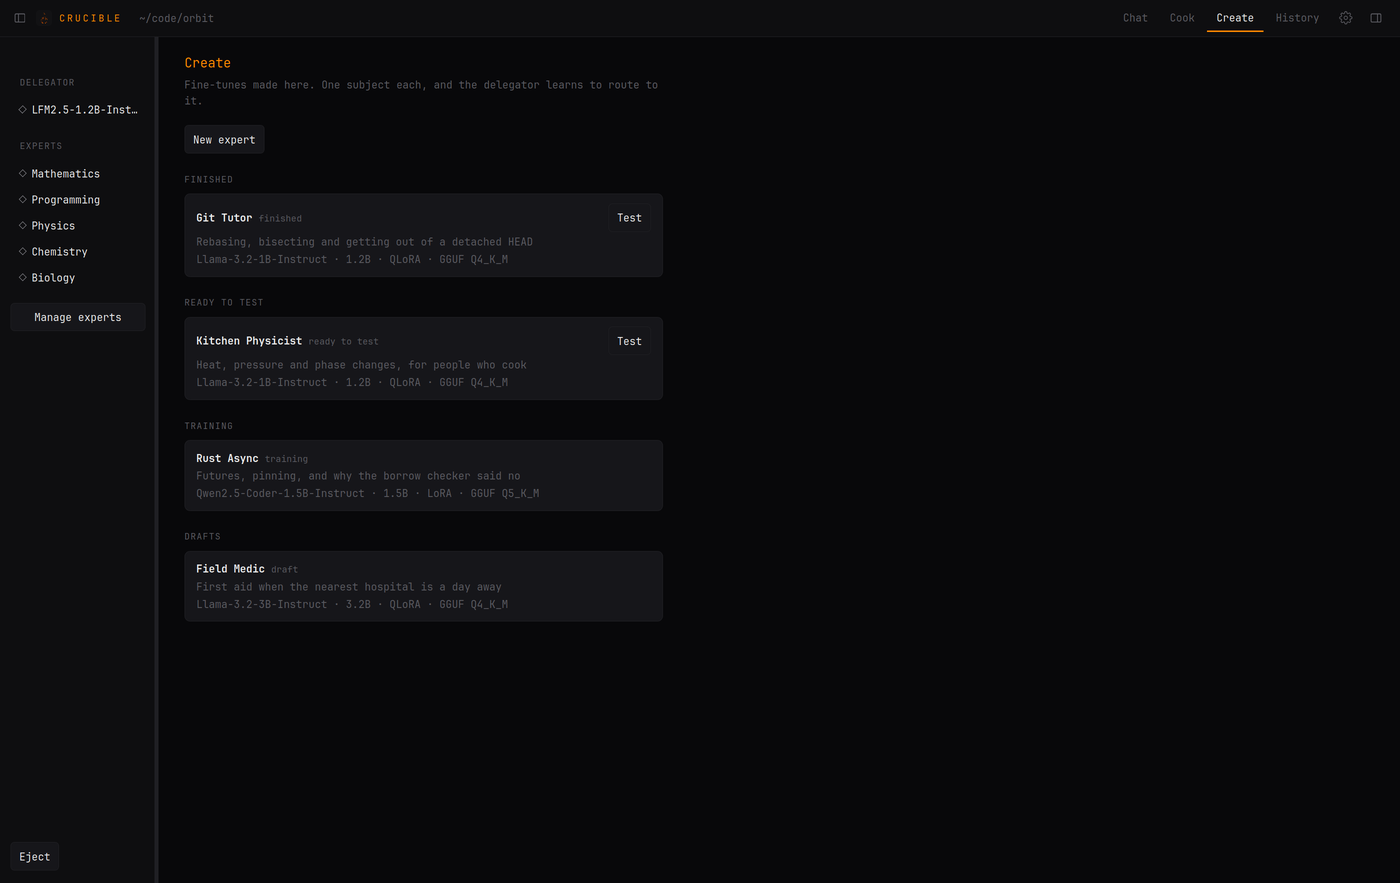
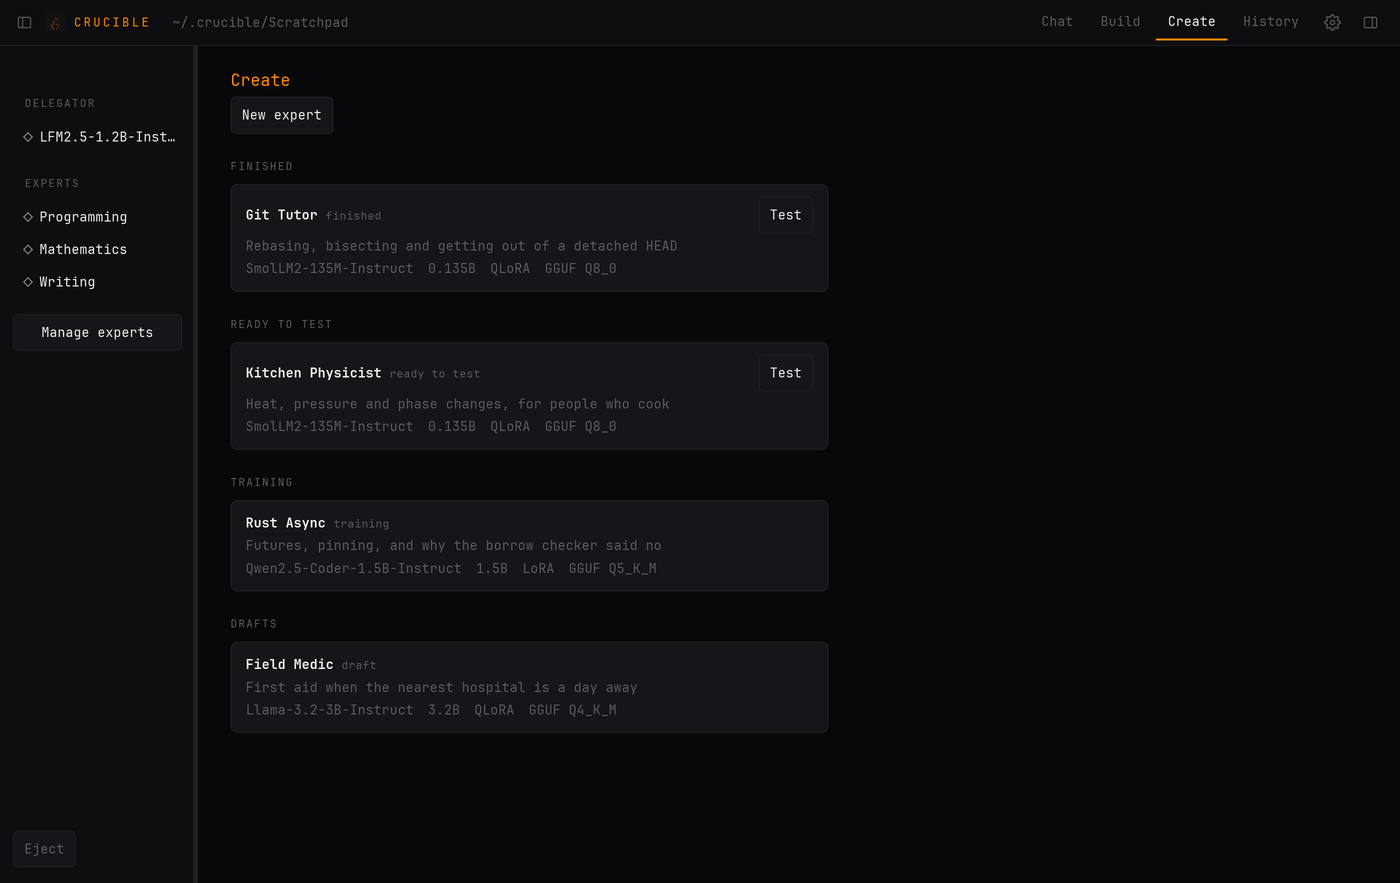
0.9.2: new pictures, and a README that says it shorter
Every picture in the README taken again on Linux, on 0.9.2: a budgeting app
planned and built by gpt-oss-20b on CUDA, its preview with an element
picked, the roster, the trust question, Create and a fine-tune under test,
the training environment on PyTorch 2.14 and Python 3.14, the runtimes, and
History. The README's opening loses a sentence, a downloaded CUDA runtime
names the driver it needs, and docs/testing records what this run found.

diff --git a/README.md b/README.md
@@ -13,17 +13,16 @@
          ⠉       
 ```
 
-**Crucible** builds software from a sentence. Say what you need; an architect
-plans it, agents build it, you watch it take shape, tune it, and keep it as a
-program of its own. Frontier models do the heavy lifting, local models the
-rest, side by side. You bring the idea, the design and the vision.
+**Crucible** builds software from a sentence. An architect plans it, agents
+build it, and you tune it and keep it as a program of its own. Frontier models
+do the heavy lifting, local models the rest.
 
 It is also a local LLM workshop: a roster of small expert models, a delegator
 that routes each prompt to the right one, and a fine-tuner to make more.
 
 Website: https://msaunders.dev/crucible/
 
-![A build: the plan's agents in the side menu, the models at work in the corner](docs/images/build.png)
+![A build: its agents in the side menu, the model at work in the corner](docs/images/build.png)
 
 ___
 ## Install
@@ -173,10 +172,11 @@ Every model, local or not, gets the same tools in a trusted folder:
 ### Hardware
 
 - Runtimes (CPU, CUDA, Metal, Vulkan) install from Settings, downloaded or
-  compiled. A downloaded CUDA runtime needs only the NVIDIA driver.
+  compiled. A downloaded CUDA runtime needs only the NVIDIA driver, 580 or
+  newer.
 - Several GPUs: auto, even, priority or single.
 
-![Runtimes: what is installed and what it would take to add more](docs/images/runtimes.png)
+![Runtimes: CPU, CUDA and Vulkan, two of them downloaded](docs/images/runtimes.png)
 
 ### History
 

diff --git a/docs/testing/README.md b/docs/testing/README.md
@@ -74,7 +74,7 @@ Exits non-zero when the turn or the build failed.
    `packaging/windows/crucible.iss`, `CHANGELOG.md` and `README.md`
    (`tests/test_install.sh` checks they agree).
 2. Push to `main` and wait for CI to pass on all three systems.
-3. Tag and push the tag: `git tag v0.9.1 && git push origin v0.9.1`.
+3. Tag and push the tag: `git tag v0.9.2 && git push origin v0.9.2`.
    The installers workflow builds the three installers and publishes the
    release.
 
@@ -94,3 +94,16 @@ macOS, M4, 24 GB, no provider. The scenario got as far as step 3.
   `RUN: sed -n` rather than READ.
 
 Next: the whole scenario on a 30B coder or with a provider key.
+
+## Seen on 2026-10-21
+
+Linux (Arch, KDE Plasma on Wayland), an RTX 4070, 5060 Ti and 3060, 0.9.2.
+
+- **gpt-oss-20b (GGUF, CUDA).** The budgeting app planned in 18 seconds and
+  built in 2 minutes: 4 tasks, 3 files, the README task routed to Writing.
+  Two rows typed into the preview showed in the table and the chart. Still
+  open: "make the header blue" looped on `RUN: sed -n` and a grep for
+  "green" until its rounds ran out; naming the file and the property worked.
+- **LFM2.5-1.2B as delegator** sent a CSS change to the Writing seat.
+- **Qwen3.8-27B (Q8_0)** split across the three cards with Dedicated VRAM
+  only, and answered.

diff --git a/CHANGELOG.md b/CHANGELOG.md
@@ -35,6 +35,10 @@ opens on Linux with NVIDIA's driver on Wayland.
 - **Reading text off pictures** on Linux without tesseract uses RapidOCR 3
   with onnxruntime. The package it used before does not install on Python
   3.13 or newer.
+- **A plan with one item where a list goes is read.** A small model that
+  wrote `"after": 1` stopped the build with "'int' object is not iterable",
+  and `"files": "index.html"` came apart into letters. One item is a list of
+  one now, and a task number written as digits counts.
 - **A runtime that cannot be compiled says what is missing.** A Vulkan build
   on a machine without the Vulkan headers said "cmake exited with status 1".
   It now says CMake could not find Vulkan, and names the packages to install.
